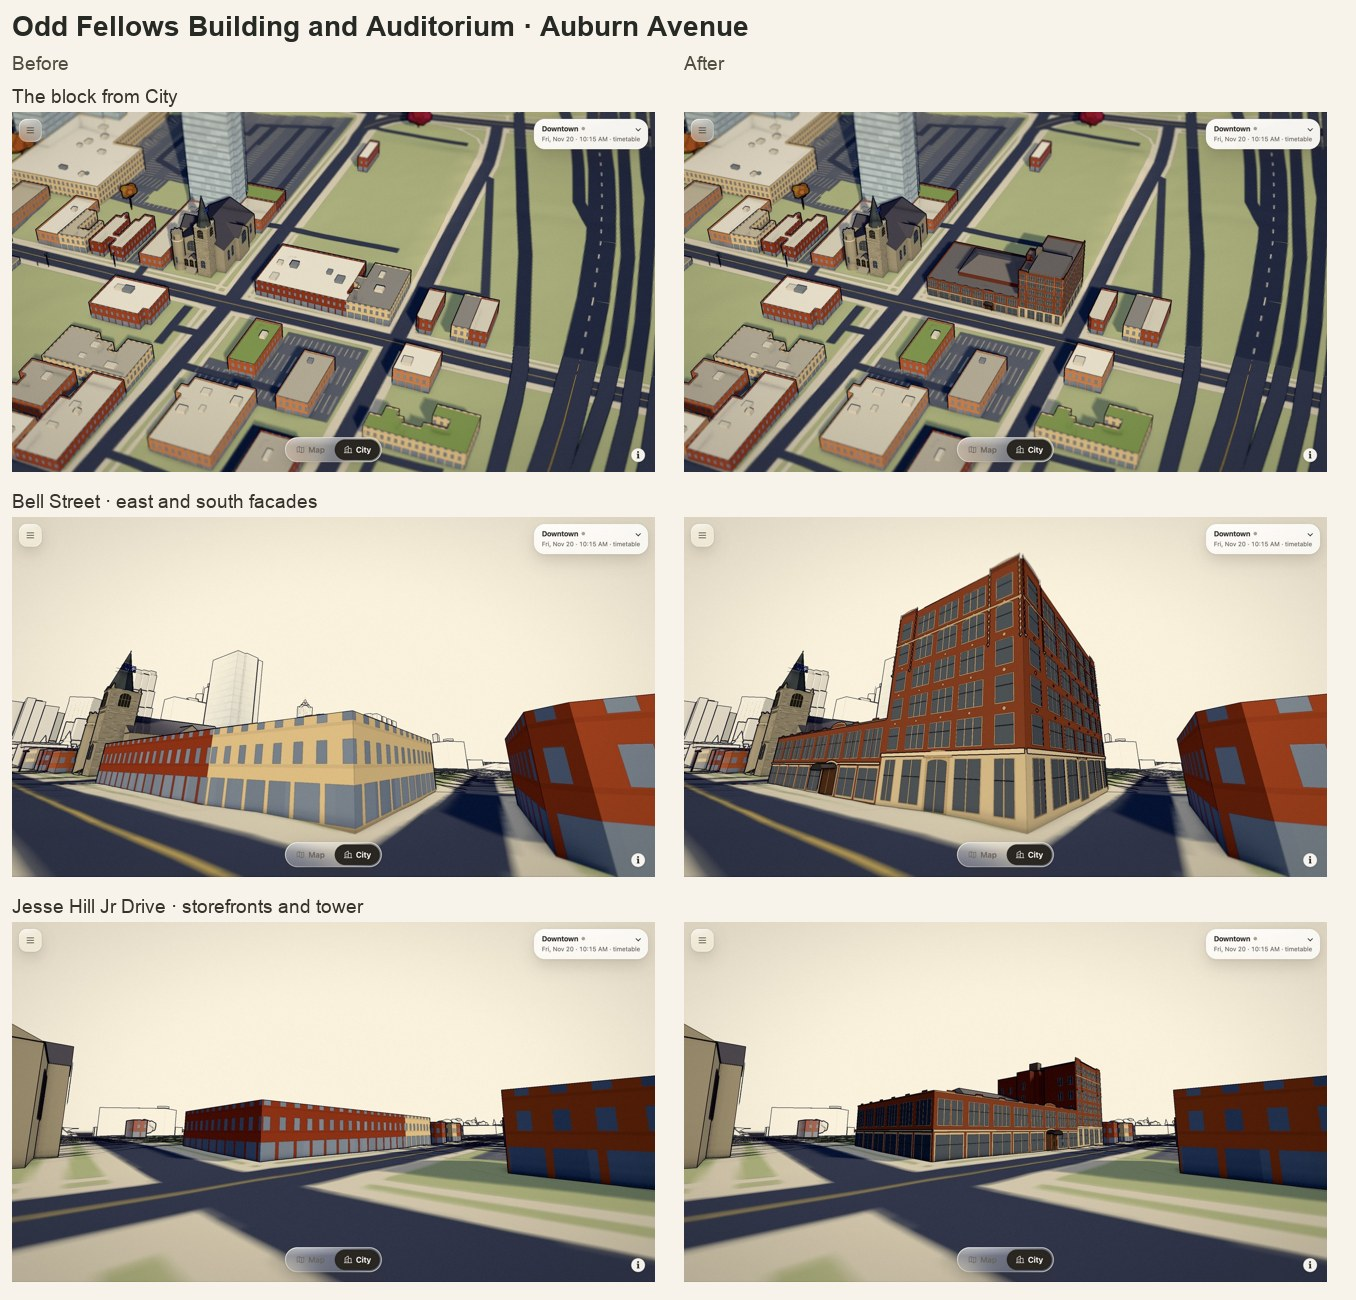
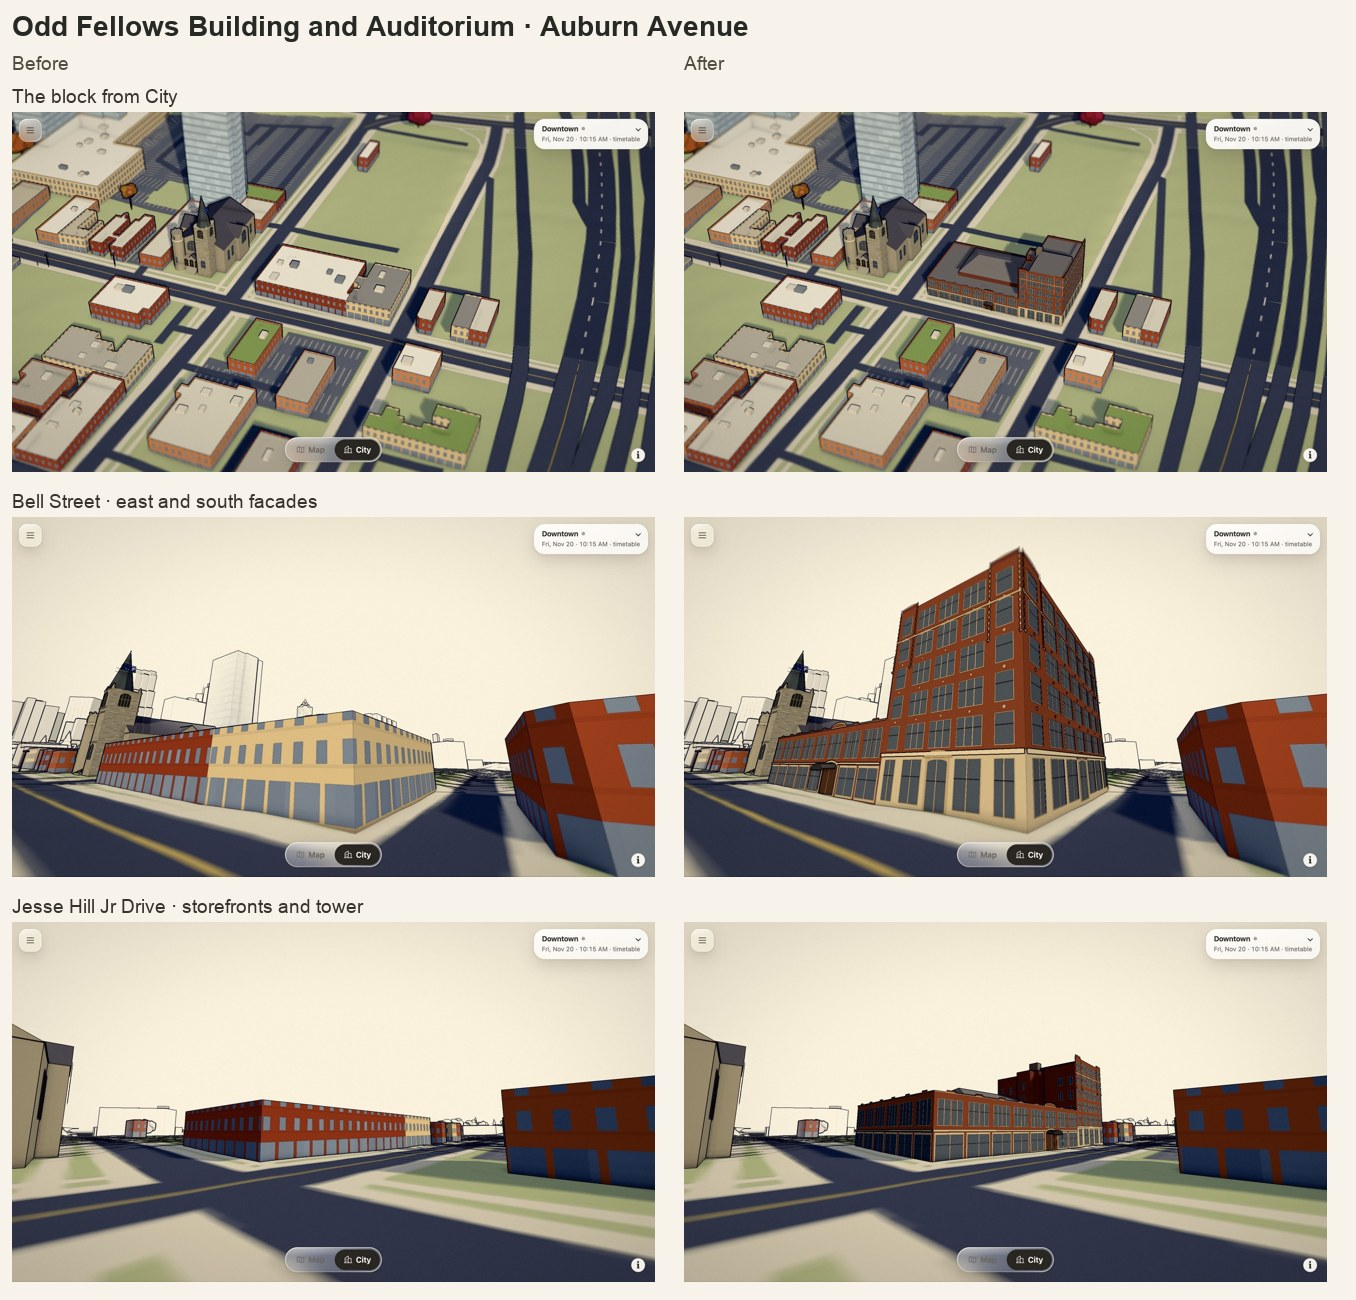
Raise the Odd Fellows street cornice above the front roof

Changed region(s): [[0.6504, 0.4, 0.8053, 0.5538]]

diff --git a/web/src/city/odd-fellows.ts b/web/src/city/odd-fellows.ts
@@ -150,7 +150,9 @@ const tower: BuildingFinish = {
     for (let i = 0; i < ring.length; i++) {
       const a = ring[i], b = ring[(i + 1) % ring.length], f = facade(batch, a, b);
       const front = Math.min(a[1], b[1]) > -192, bell = Math.min(a[0], b[0]) > 1120;
-      if (front || bell) officeFront(f, base, cap + .95, front ? 5 : 7);
+      // The street cornice stands just above the 320.02 m front roof. The
+      // raised end bays project above that line in the Auburn photograph.
+      if (front || bell) officeFront(f, base, cap + 1.76, front ? 5 : 7);
       else {
         f.panel(0, f.length, base - .55, cap, 0, deepBrick);
         if (f.length < 5) continue;

diff --git a/docs/log/ui/odd-fellows/README.md b/docs/log/ui/odd-fellows/README.md
@@ -15,7 +15,7 @@ In the baked OSM data, the Bell Street office tower is way 841048595 (“Odd Fel
 | Tower roof toward Auburn | 241 | 320.02 |
 | Small upper projection | 17 | 321.63 |
 
-The model follows these six heights. The front tower roof sits 2.78 m above the rear one. The auditorium ridge rises 5.95 m above the storefront roof and sits behind it. The ground foundation on both board tiers is 294.80 m NAVD88. City x points east and z south in local metres from Five Points (33.7539° N, 84.3916° W), and scene y equals NAVD88 metres minus 323.8. Hip slopes, ridge endpoints, the small upper volume's footprint and parapet thickness are estimated. The lidar predates the tower's renovation. [Roof views](roofs.jpg) · [Survey script and selection rectangles](../../../../pipeline/prototypes/odd-fellows/survey.py)
+The model follows these six heights. The street cornice is estimated at 320.10 m, just above the front roof. The front tower roof sits 2.78 m above the rear one. The auditorium ridge rises 5.95 m above the storefront roof and sits behind it. The ground foundation on both board tiers is 294.80 m NAVD88. City x points east and z south in local metres from Five Points (33.7539° N, 84.3916° W), and scene y equals NAVD88 metres minus 323.8. Hip slopes, ridge endpoints, the small upper volume's footprint and parapet thickness are estimated. The lidar predates the tower's renovation. [Roof views](roofs.jpg) · [Survey script and selection rectangles](../../../../pipeline/prototypes/odd-fellows/survey.py)
 
 ## Streets and light
 
